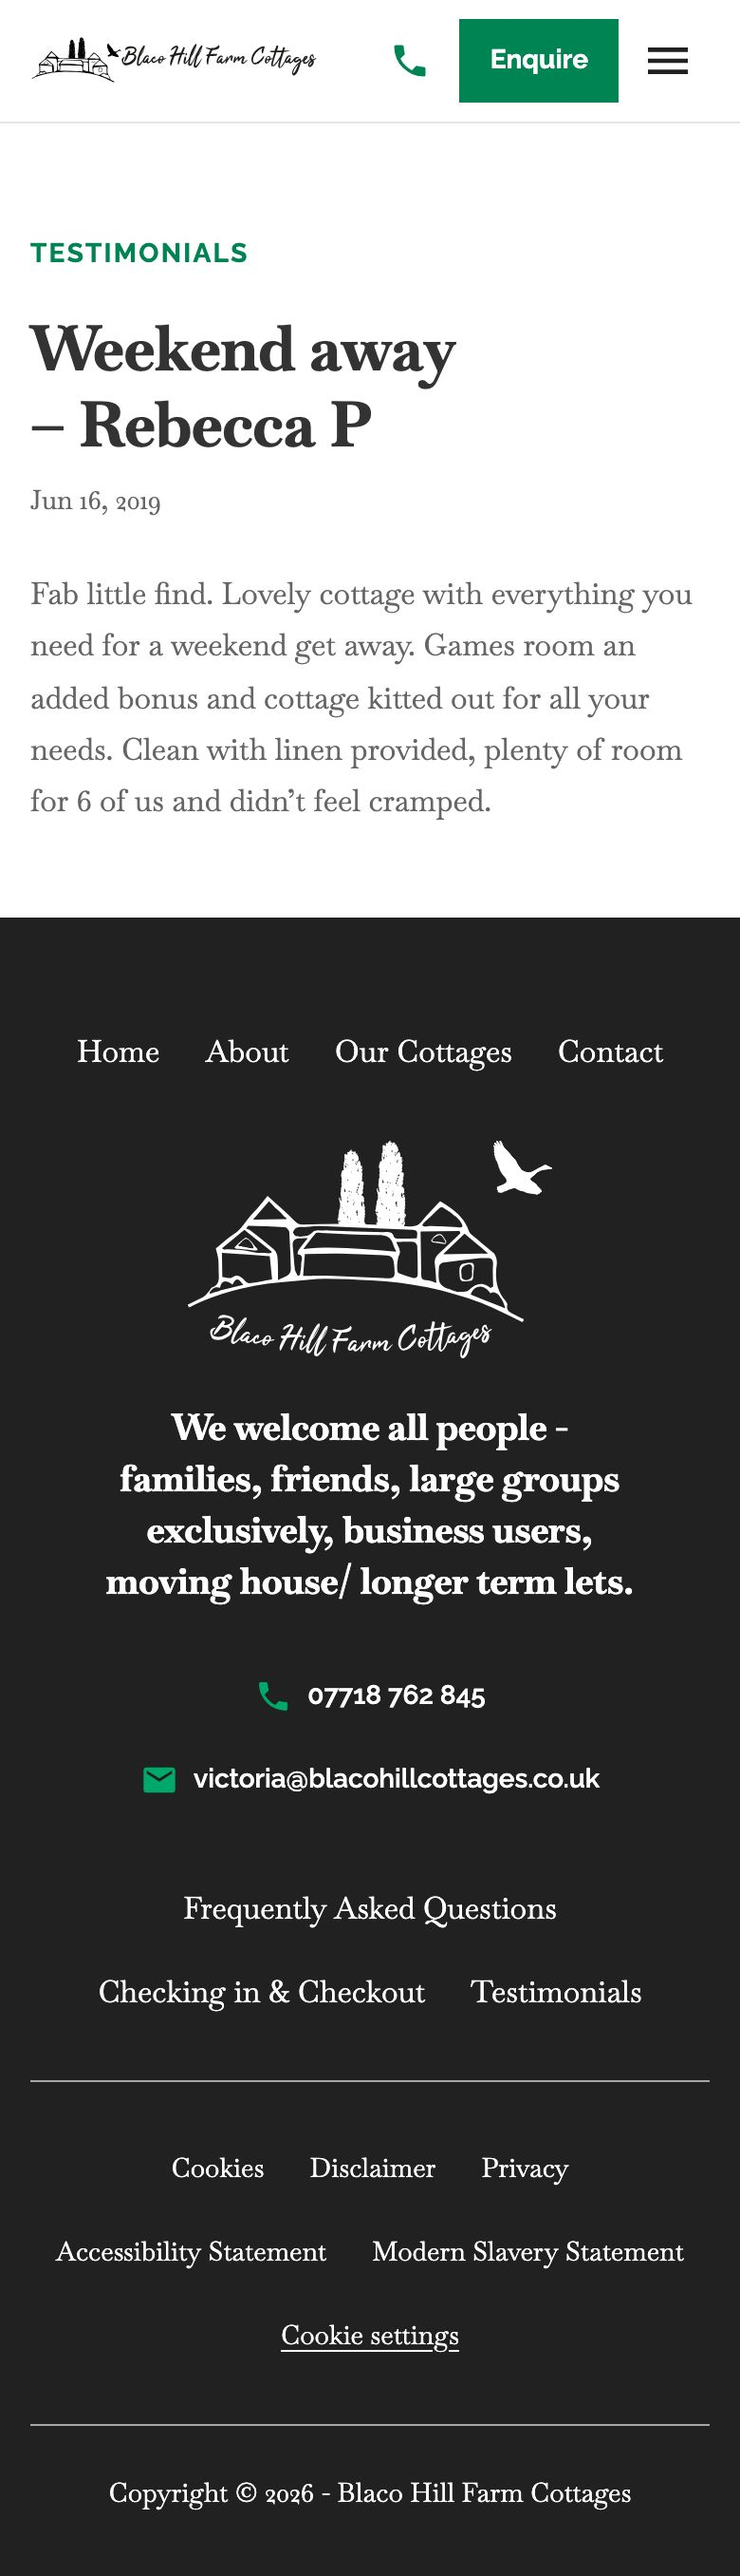
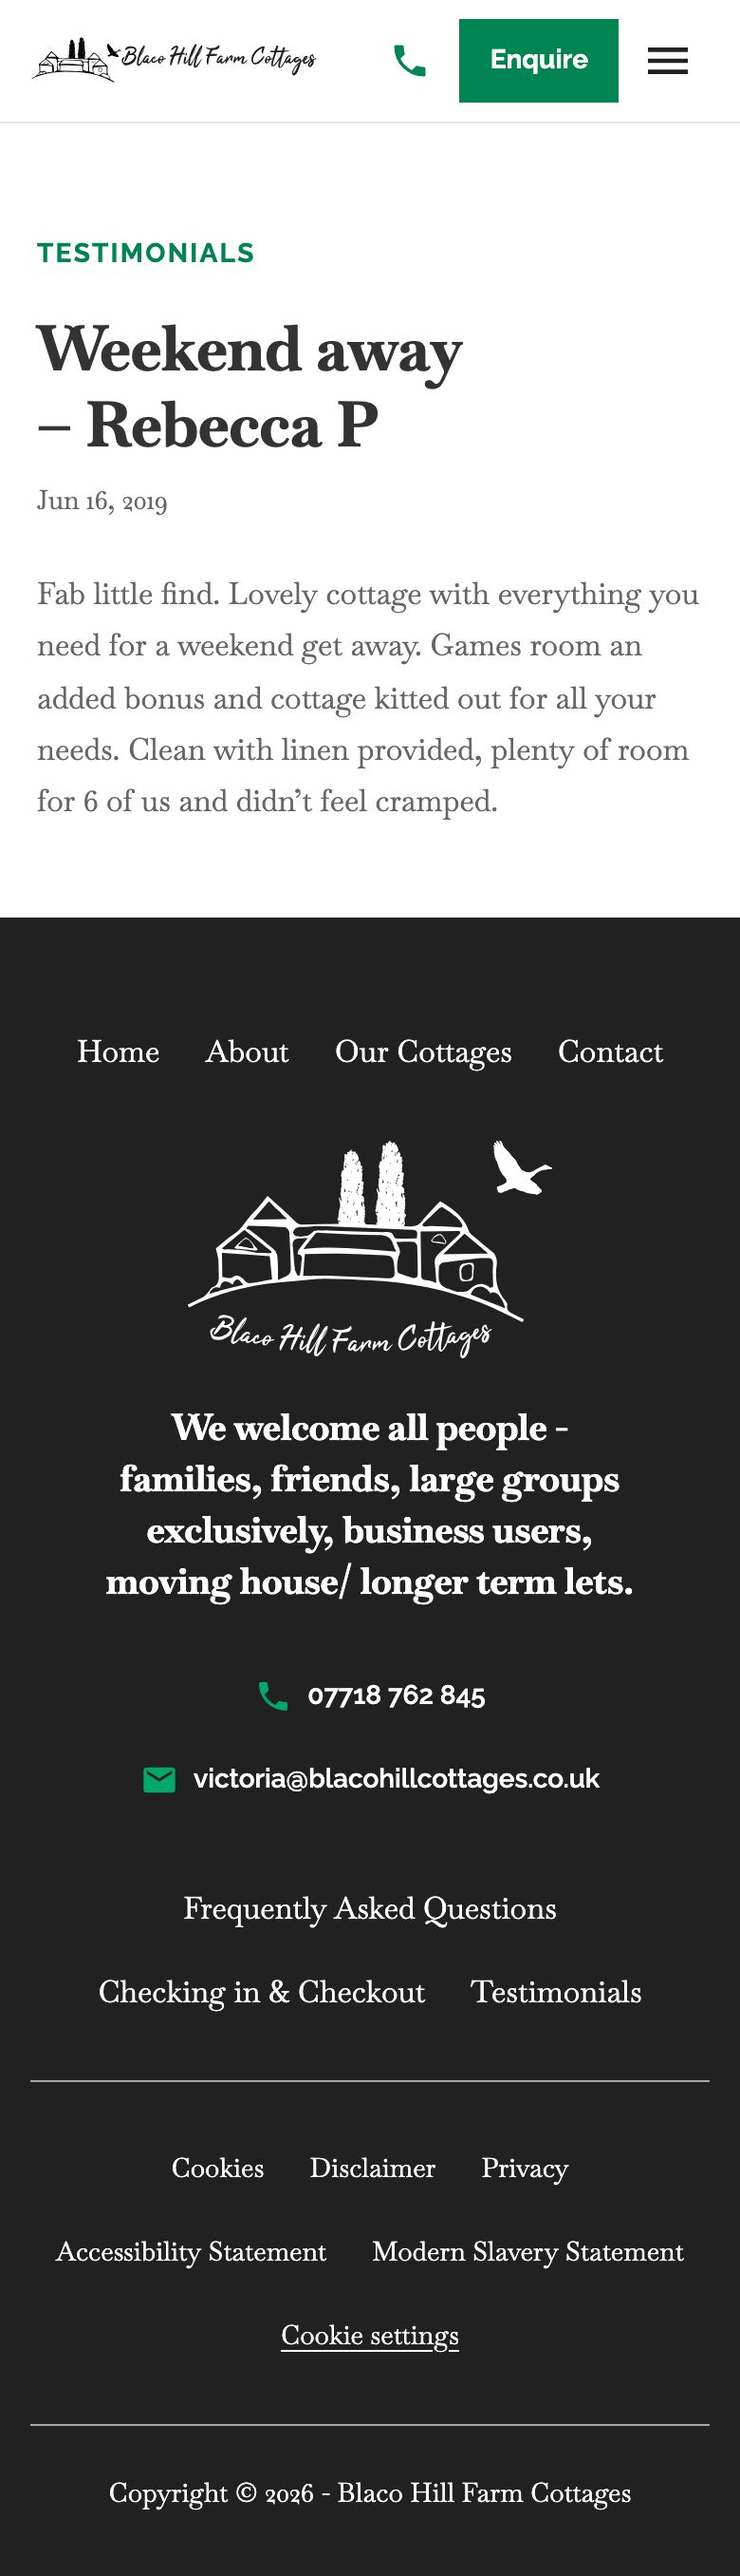
Replace the reading measure with a 90% text column
Change of requirement, recorded in agent/DECISIONS.md: on every
text-heavy page the text column is 90% of the page width, centred, with
5% either side. It is not a character count, a ch value or a maximum
width.

--measure and every rule built on it are gone: the prose cap, the capped
and centred .inner, the accessibility exception and the detail pages'
.post > * rule. In their place the content sections of the policy pages,
the accessibility statement and /modern-slavery, and the FAQ and
testimonial details' .post, take padding-inline: 5%. Percentage padding
is taken from the page width, so the column is 90% at every width, phones
included. The accessibility statement's headings, intro and list rows
share the column again; its list rows have no mid-word breaks. The green
band and contact block keep their own layout.

measure-check.mjs checked the removed measure; column-check.mjs replaces
it and measures the rendered column: 90.00% of the page, 5.00% either
side, on all seven pages at 390, 768, 1280, 1920 and 2800px.

Screenshots retaken for accessibility, modern-slavery, policy, post-faq
and post-testimonial. tsc clean, build 60 pages, SEO audit clean bar the
three known long titles, content parity 0 unexplained, URL parity 69 of
69, Phase 4 pass, :global audit clean.

Changed region(s): [[0.0308, 0.0929, 0.9231, 0.3407]]

diff --git a/app/components/blocks/Blocks.module.css b/app/components/blocks/Blocks.module.css
@@ -400,36 +400,14 @@
 }
 
 /*
-  Reading measure for text-heavy pages (Checkpoint 5 decision 2). The limit is
-  in ch, so it scales with the type and holds the same characters per line at
-  every width. Only text is limited: backgrounds and images stay full width.
+  Text-heavy pages (agent/DECISIONS.md, "Text column: 90% of the page width"):
+  the content sections form one text column, 90% of the page width and
+  centred, with 5% either side. Percentage padding is taken from the width of
+  the section, which spans the page, so the column scales with it at every
+  width. The green band and the contact block keep their own layout.
 */
-.measured .prose {
-  max-width: var(--measure);
-}
-
-/*
-  The content sections of these pages form one text column, centred in the
-  page rather than left against the gutter. The whole block is limited. The
-  gutters are padding inside .inner, so they are added to the measure rather
-  than taken out of it. The green band and the contact block keep their
-  full-width layout.
-*/
-.measured:not([data-template='accessibility']) .section[data-kind='content'] > .inner {
-  max-width: calc(var(--measure) + 2 * var(--gutter));
-  margin-inline: auto;
-}
-
-/*
-  The accessibility statement's rows of two to four list columns run the full
-  width of the page, as squeezed into the measure they wrapped every few words.
-  Only its full-width text, the intro and the cottage headings, keeps to the
-  centred measure. width: 100% stops a flex item with auto margins shrinking to
-  its content, so the text holds the full measure.
-*/
-.measured[data-template='accessibility'] .section[data-kind='content'] .column[data-size='4_4'] > .prose {
-  width: 100%;
-  margin-inline: auto;
+.textHeavy .section[data-kind='content'] > .inner {
+  padding-inline: 5%;
 }
 
 /* ---------- buttons ---------- */

diff --git a/app/components/templates/StandardTemplate.tsx b/app/components/templates/StandardTemplate.tsx
@@ -8,11 +8,11 @@ import type { Page } from '../../lib/content';
 // its own mobile layout, and data-template leaves room for per-template styling.
 export function StandardTemplate({ page }: { page: Page }) {
   const postsCategory = page.template === 'faq-index' ? 'faq' : page.template === 'testimonial-index' ? 'testimonial' : undefined;
-  // Checkpoint 5 decision 2: text-heavy pages limit their text column to a
-  // reading measure; the layout, backgrounds and images stay full width.
+  // Text-heavy pages set their text column at 90% of the page width, centred
+  // (agent/DECISIONS.md, "Text column: 90% of the page width").
   const textHeavy = page.template === 'policy' || page.template === 'accessibility' || page.url === '/modern-slavery';
   return (
-    <div data-template={page.template} className={textHeavy ? blocks.measured : undefined}>
+    <div data-template={page.template} className={textHeavy ? blocks.textHeavy : undefined}>
       {page.template === 'faq-index' && <FaqIndexSchema />}
       <Sections sections={page.sections ?? []} postsCategory={postsCategory} />
     </div>

diff --git a/app/components/templates/PostTemplate.module.css b/app/components/templates/PostTemplate.module.css
@@ -1,8 +1,11 @@
+/* FAQ and testimonial detail pages are text heavy: the text column is 90% of
+   the page width and centred, with 5% either side (agent/DECISIONS.md, "Text
+   column: 90% of the page width"). The percentage is of the page width. */
 .post {
   display: flex;
   flex-direction: column;
   gap: var(--space-m);
-  padding: var(--space-xl) var(--gutter);
+  padding: var(--space-xl) 5%;
 }
 
 .header {
@@ -32,12 +35,3 @@
   font-size: var(--step--1);
 }
 
-/* FAQ and testimonial detail pages are text heavy: the header and the answer
-   keep to the reading measure (Checkpoint 5 decision 2), centred in the page.
-   width: 100% stops a flex item with auto margins shrinking to its content, so
-   the header and the answer share one column. */
-.post > * {
-  width: 100%;
-  max-width: var(--measure);
-  margin-inline: auto;
-}

diff --git a/app/globals.css b/app/globals.css
@@ -59,13 +59,6 @@
   --gutter: clamp(1rem, 0.4429rem + 2.286vw, 2.5rem);
   --header-height: 4rem;
   --touch-target: 44px;
-  /* Reading measure on text-heavy pages only (Checkpoint 5 decision 2): 90
-     characters per line. 1ch is the width of a Baskervville 0, which is
-     narrower than the average character of running text, so 90ch held 98.
-     83ch was found by counting the characters on full rendered lines of the
-     text-heavy pages: a median of 90 at every width, as ch and the type
-     scale together. */
-  --measure: 83ch;
   --radius: 0;
 
   --focus-ring: 3px solid var(--colour-green);

diff --git a/agent/DECISIONS.md b/agent/DECISIONS.md
@@ -103,8 +103,18 @@ Requested by the client, 2026-09-23.
 
 ## Reading measure widened and centred
 
-Requested by Steve, 2026-09-23. This updates Checkpoint 5 decision 2.
+Requested by Steve, 2026-09-23. This updates Checkpoint 5 decision 2. **Superseded on 2026-09-24 by "Text column: 90% of the page width" below.**
 
 1. **The measure is 90 characters per line**, widened from about 75. It is set as `--measure: 83ch`, found by counting characters on full rendered lines (Steve, 2026-09-24). A Baskervville `0`, which sets the `ch` unit, is narrower than the average character of running text, so `90ch` itself held a median of 98. At 83ch the text-heavy pages hold a median of 90 at every width from 768px to 2800px, in Chromium, WebKit and Firefox.
 2. **The text column is centred** in the page on every text-heavy page: the policy pages, the accessibility statement, the modern slavery page, and the FAQ and testimonial detail pages. On the standard templates the whole content block is limited and centred. The green band and contact block below stay full width.
 3. **The accessibility statement's list rows run full width** (Steve, 2026-09-24). Its rows of two to four list columns, and the dividers between them, span the page as before, keeping their column counts (Checkpoint 4 decision 6). Only its full-width text, the intro and the cottage headings, sits in the centred measure. Squeezed into the measure, the list columns had wrapped at about 15 characters per line and broken "Washhandbasin" mid-word.
+
+## Text column: 90% of the page width
+
+Requested by Steve, 2026-09-24. This replaces the reading measure entirely: Checkpoint 5 decision 2 and "Reading measure widened and centred" above.
+
+1. **On every text-heavy page** (the policy pages, the accessibility statement, the modern slavery page, and the FAQ and testimonial detail pages) the text column is 90% of the page width, centred, with 5% either side. It is not a character count, a `ch` value or a maximum width in pixels.
+2. **The `--measure` variable and every rule based on it are removed.** The 5% is padding on the full-width content section, so the column scales with the page at every width, phones included.
+3. **On the accessibility statement** the headings, intro and list rows all sit in the same 90% column, so they line up again. This replaces the exception that let its list rows run full width.
+4. **The green band and the contact block** below the text keep their own full-width layout, as on every other page.
+5. **No cap remains.** A 90% column scales with the page, so the Checkpoint 4 liquid layout rule (no container or text block capped at any width) now holds on these pages too, with no exception.
